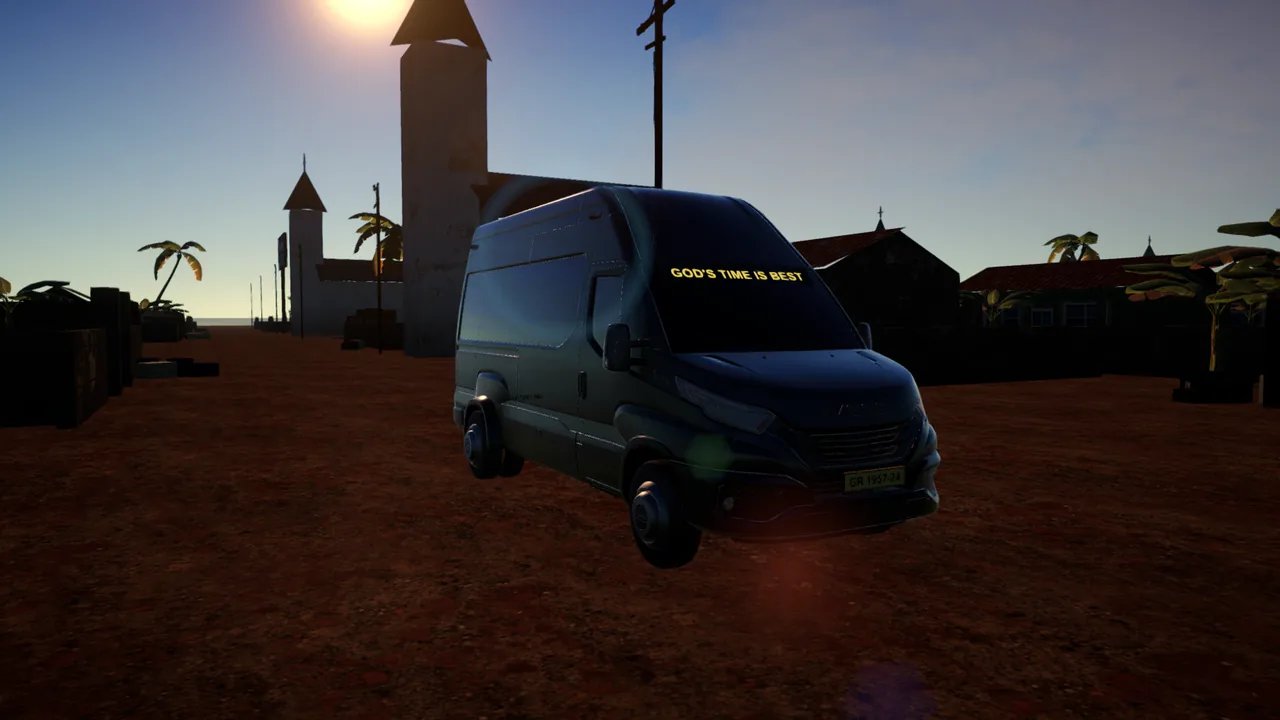
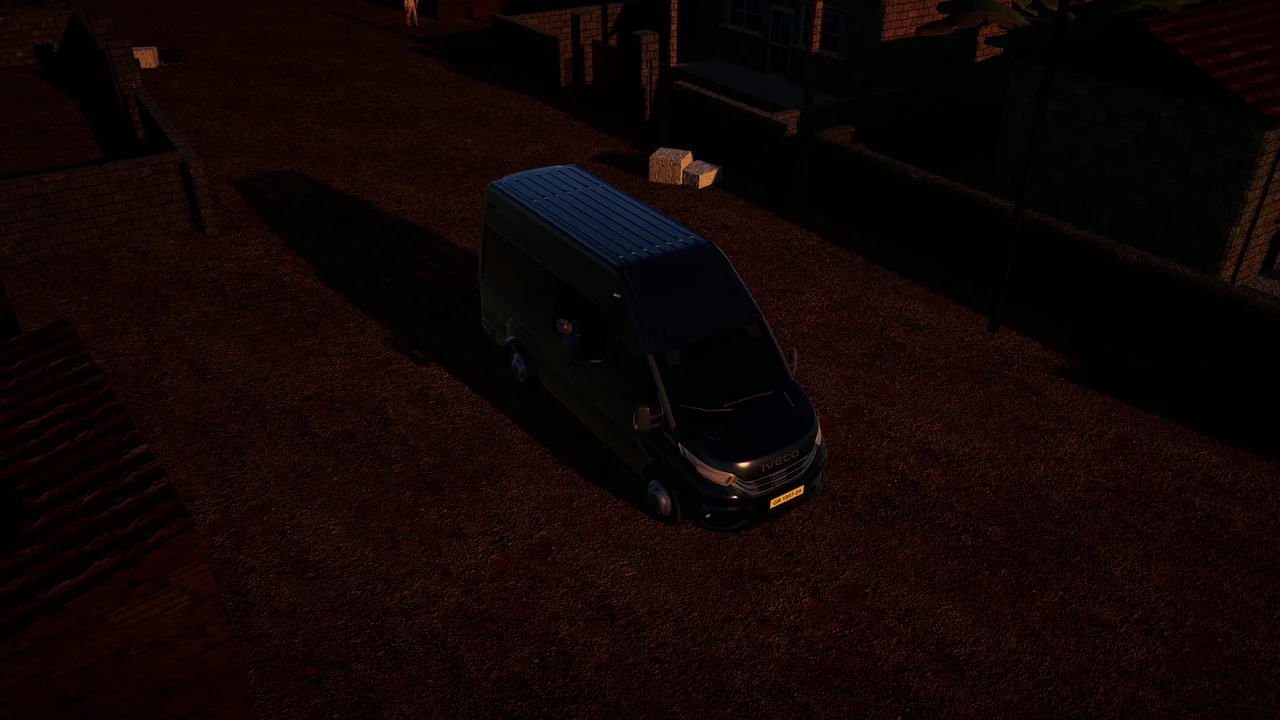
Troski Simulator site: rename city to Gold Coast City, new hero image, new background

diff --git a/troskisimulator/app.js b/troskisimulator/app.js
@@ -42,7 +42,7 @@
     { id: 'coins3', ico: '🪙', name: 'Pocket Change', desc: 'Collect 3 hidden cedi coins.', prog: () => [Math.min(S.coins.length, 3), 3] },
     { id: 'coins12', ico: '💰', name: 'Cedi Collector', desc: 'Find all ' + TOTAL_COINS + ' coins on the page.', prog: () => [S.coins.length, TOTAL_COINS] },
     { id: 'modes', ico: '🚌', name: 'Shift Planner', desc: 'Look at all four shift modes.', prog: () => [S.modes.length, 4] },
-    { id: 'pins', ico: '📍', name: 'Map Reader', desc: 'Tap 5 pins on the Accra radar.', prog: () => [Math.min(S.pins.length, 5), 5] },
+    { id: 'pins', ico: '📍', name: 'Map Reader', desc: 'Tap 5 pins on the Gold Coast City radar.', prog: () => [Math.min(S.pins.length, 5), 5] },
     { id: 'dl1', ico: '🖼', name: 'Wallpaper Rookie', desc: 'Download your first 4K wallpaper.', prog: () => [Math.min(S.dl.length, 1), 1] },
     { id: 'dl8', ico: '🔥', name: 'Wallpaper Hoarder', desc: 'Download 8 wallpapers.', prog: () => [Math.min(S.dl.length, 8), 8] },
     { id: 'dlall', ico: '🏆', name: 'Full Garage', desc: 'Collect every wallpaper.', prog: () => [S.dl.length, (window.__SHOTS || []).length || 16] },
@@ -94,7 +94,7 @@
   }
 
   /* ---------- ticker ---------- */
-  const SLOGANS = ["GOD'S TIME IS BEST", 'NO CONDITION IS PERMANENT', 'TROTRO STATION', 'ONLY GOD CAN JUDGE ME', 'MIND THE POTHOLES', "DON'T DRIVE LIKE ME", 'ACCRA', 'FARES + TIPS'];
+  const SLOGANS = ["GOD'S TIME IS BEST", 'NO CONDITION IS PERMANENT', 'TROTRO STATION', 'ONLY GOD CAN JUDGE ME', 'MIND THE POTHOLES', "DON'T DRIVE LIKE ME", 'GOLD COAST CITY', 'FARES + TIPS'];
   (function () {
     const t = $('#tickerTrack'); if (!t) return; let h = '';
     for (let r = 0; r < 4; r++) SLOGANS.forEach(s => { h += '<span>' + s + '</span><span class="dot">&#9679;</span>'; });
@@ -103,7 +103,7 @@
 
   /* ---------- modes ---------- */
   const MODES = [
-    { name: 'Free Roam', tag: 'No rules // Just drive', blurb: 'Cruise Accra with no timer and no job. Learn the roads, find the markets, dodge the potholes. Police checkpoints still apply.', reward: 'No payout', diff: 15, pay: 5, img: '/img/modes/mode_0.webp' },
+    { name: 'Free Roam', tag: 'No rules // Just drive', blurb: 'Cruise Gold Coast City with no timer and no job. Learn the roads, find the markets, dodge the potholes. Police checkpoints still apply.', reward: 'No payout', diff: 15, pay: 5, img: '/img/modes/mode_0.webp' },
     { name: 'Route', tag: 'Pick up // Drop off // Get paid', blurb: 'Collect passengers at tro tro stops and drop them where they are going. Smooth driving keeps the comfort rating, and the tips, high.', reward: 'Fares + tips', diff: 50, pay: 65, img: '/img/modes/mode_1.webp' },
     { name: 'Carrier', tag: 'Fragile // Haul // Deliver', blurb: 'Haul goods between markets and kiosks. Every pothole, bump and crash damages the cargo, and the payout follows what arrives intact.', reward: 'Payout x cargo health', diff: 70, pay: 75, img: '/img/modes/mode_2.webp' },
     { name: 'Rush Hour', tag: 'Race the clock // Chain fares', blurb: 'Two and a half minutes on the clock. Every drop-off adds time. Chain fares as fast as you dare. The checkpoints will not wait.', reward: 'Fares + time bonus', diff: 92, pay: 90, img: '/img/modes/mode_3.webp' }
@@ -135,10 +135,10 @@
     { n: 'Independence Square', x: 0, z: 150, k: 'landmark', d: 'Black Star Square, Independence Arch, the Kwame Nkrumah Mausoleum, Jubilee House and the National Theatre all sit within a few hundred metres.' },
     { n: 'Osu Castle', x: 1260, z: -60, k: 'landmark', d: 'The old castle walls on the coast, with the flag flying over them.' },
     { n: 'Jamestown Lighthouse', x: -2340, z: -60, k: 'landmark', d: 'The lighthouse at the western end of the coast road.' },
-    { n: 'Accra Sports Stadium', x: -480, z: 1020, k: 'landmark', d: 'The big bowl of the stadium, with its own surrounding streets.' },
+    { n: 'Gold Coast Sports Stadium', x: -480, z: 1020, k: 'landmark', d: 'The big bowl of the stadium, with its own surrounding streets.' },
     { n: 'Kwame Nkrumah Circle', x: -900, z: 1980, k: 'landmark', d: 'The famous interchange, with a real flyover you can drive over and under.' },
     { n: 'Kotoka International Airport', x: 2340, z: 3540, k: 'landmark', d: 'Terminal, runways and the busy roads that feed them.' },
-    { n: 'Accra Mall', x: 1020, z: 3300, k: 'landmark', d: 'Shopping, car parks and a lot of fares waiting to be picked up.' },
+    { n: 'Gold Coast Mall', x: 1020, z: 3300, k: 'landmark', d: 'Shopping, car parks and a lot of fares waiting to be picked up.' },
     { n: 'University of Ghana', x: 1380, z: 4740, k: 'landmark', d: 'The Balme Library and the campus roads around it.' },
     { n: 'Makola Market', x: -951, z: 664, k: 'market', d: 'Wall-to-wall stalls and umbrellas, and the busiest roads in the game.' },
     { n: 'Kaneshie Market', x: -2637, z: 1370, k: 'market', d: 'Stall rows, shop fronts and hawkers working the stopped cars.' },
@@ -146,7 +146,7 @@
     { n: 'Labadi coast road', x: 2753, z: -122, k: 'place', d: 'The sea on one side, the town on the other, and a long golden-hour run.' },
     { n: 'Achimota Forest', x: -2638, z: 4512, k: 'place', d: 'Dirt roads through the trees on the north-western edge of the map.' },
     { n: 'East Legon', x: 3049, z: 4315, k: 'place', d: 'Wide estate roads, walls and gates in the north-east.' },
-    { n: 'Greater Accra villages', x: 2521, z: 1731, k: 'place', d: 'Red earth, brick houses and village roads. Many shifts start here.' }
+    { n: 'Greater Gold Coast villages', x: 2521, z: 1731, k: 'place', d: 'Red earth, brick houses and village roads. Many shifts start here.' }
   ];
   (function () {
     const host = $('#pins'), info = $('#pinInfo'), list = $('#lmList'); if (!host) return;

diff --git a/troskisimulator/index.html b/troskisimulator/index.html
@@ -3,16 +3,16 @@
 <head>
 <meta charset="utf-8">
 <meta name="viewport" content="width=device-width, initial-scale=1">
-<title>Troski Simulator | Drive the tro tro. Run Accra.</title>
-<meta name="description" content="Troski Simulator is an open-world tro tro driving game set in Accra, Ghana. Pick up passengers, haul cargo, beat the checkpoints and download 4K wallpapers from the game.">
+<title>Troski Simulator | Drive the tro tro. Run Gold Coast City.</title>
+<meta name="description" content="Troski Simulator is an open-world tro tro driving game set in Gold Coast City, Ghana. Pick up passengers, haul cargo, beat the checkpoints and download 4K wallpapers from the game.">
 <meta name="theme-color" content="#131417">
 <link rel="canonical" href="https://troskisimulator.sbmindtechnologies.com/">
 <link rel="icon" href="/favicon.ico">
 <link rel="apple-touch-icon" href="/img/icon-256.png">
 <meta property="og:type" content="website">
 <meta property="og:site_name" content="Troski Simulator">
-<meta property="og:title" content="Troski Simulator | Drive the tro tro. Run Accra.">
-<meta property="og:description" content="An open-world tro tro driving game set in Accra, Ghana. Download 4K wallpapers from the game.">
+<meta property="og:title" content="Troski Simulator | Drive the tro tro. Run Gold Coast City.">
+<meta property="og:description" content="An open-world tro tro driving game set in Gold Coast City, Ghana. Download 4K wallpapers from the game.">
 <meta property="og:url" content="https://troskisimulator.sbmindtechnologies.com/">
 <meta property="og:image" content="https://troskisimulator.sbmindtechnologies.com/img/og.jpg">
 <meta name="twitter:card" content="summary_large_image">
@@ -33,7 +33,7 @@
     <div class="xp-bar"><i id="xpFill"></i></div>
   </div>
   <nav class="hud-nav" aria-label="Sections">
-    <a href="#game">Game</a><a href="#modes">Modes</a><a href="#world">Accra</a><a href="#wallpapers">Wallpapers</a>
+    <a href="#game">Game</a><a href="#modes">Modes</a><a href="#world">The City</a><a href="#wallpapers">Wallpapers</a>
   </nav>
   <div class="hud-stats">
     <div class="chip panel" title="Cedi coins collected on this page"><span class="coin-ico"></span><b id="cash">GHS 0</b></div>
@@ -49,9 +49,9 @@
   <div class="hero-bg" id="heroBg"></div>
   <div class="hero-shade"></div>
   <div class="hero-inner">
-    <p class="kicker"><span class="flag"><i></i><i></i><i></i></span> An SBMind Interactive game · Accra, Ghana</p>
+    <p class="kicker"><span class="flag"><i></i><i></i><i></i></span> An SBMind Interactive game · Gold Coast City, Ghana</p>
     <h1 class="wordmark" aria-label="Troski Simulator"><span class="wm-1">TROSKI</span><span class="wm-2">SIMULATOR</span></h1>
-    <p class="tagline">Load the passengers. Beat the checkpoints. <em>Own the roads of Accra.</em></p>
+    <p class="tagline">Load the passengers. Beat the checkpoints. <em>Own the roads of Gold Coast City.</em></p>
     <div class="cta-row">
       <a class="btn btn-gold" href="#modes" id="startShift"><span>START SHIFT</span><svg viewBox="0 0 24 24" width="22" height="22" aria-hidden="true"><path fill="none" stroke="currentColor" stroke-width="3.2" stroke-linecap="round" stroke-linejoin="round" d="M8 4l8 8-8 8"/></svg></a>
       <a class="btn btn-ghost" href="#wallpapers"><span>GET 4K WALLPAPERS</span></a>
@@ -114,7 +114,7 @@
       <div class="landmarks" id="lmList"></div>
     </div>
     <div class="radar-wrap reveal">
-      <div class="radar" id="radar" role="img" aria-label="Stylised map of Accra with game locations">
+      <div class="radar" id="radar" role="img" aria-label="Stylised map of Gold Coast City with game locations">
         <div class="radar-sweep"></div>
         <div class="radar-sea">ATLANTIC OCEAN</div>
         <div id="pins"></div>

diff --git a/troskisimulator/styles.css b/troskisimulator/styles.css
@@ -83,7 +83,7 @@ button.chip:hover{filter:brightness(1.25)}
 .g-hub{fill:var(--gold)}
 .g-read{position:absolute;inset:auto 0 30px 0;text-align:center;font-family:var(--ui);font-style:italic;font-weight:800;line-height:1}
 .g-read b{display:block;font-size:34px}.g-read span{font-size:13px;color:var(--hot-hi);letter-spacing:.1em}
-@media (max-width:900px){.gauge{display:none}.hero-bg{background-image:url(/gallery/view/sunrise-shift.webp);background-position:72% 50%}.hero-shade{background:linear-gradient(0deg,rgba(10,11,13,.92) 0%,rgba(10,11,13,.55) 48%,rgba(10,11,13,.05) 100%)}.hero{align-items:flex-end}.hero-inner{padding:110px 0 90px}.btn{font-size:22px;padding:12px 22px}}
+@media (max-width:900px){.gauge{display:none}.hero-bg{background-image:url(/img/hero-small.webp);background-position:50% 50%}.hero-shade{background:linear-gradient(0deg,rgba(10,11,13,.92) 0%,rgba(10,11,13,.55) 48%,rgba(10,11,13,.05) 100%)}.hero{align-items:flex-end}.hero-inner{padding:110px 0 90px}.btn{font-size:22px;padding:12px 22px}}
 .hazard{position:absolute;left:0;right:0;bottom:0;height:16px;background:repeating-linear-gradient(-45deg,var(--gold) 0 14px,#101113 14px 28px);opacity:.95}
 
 /* ===== TICKER ===== */
